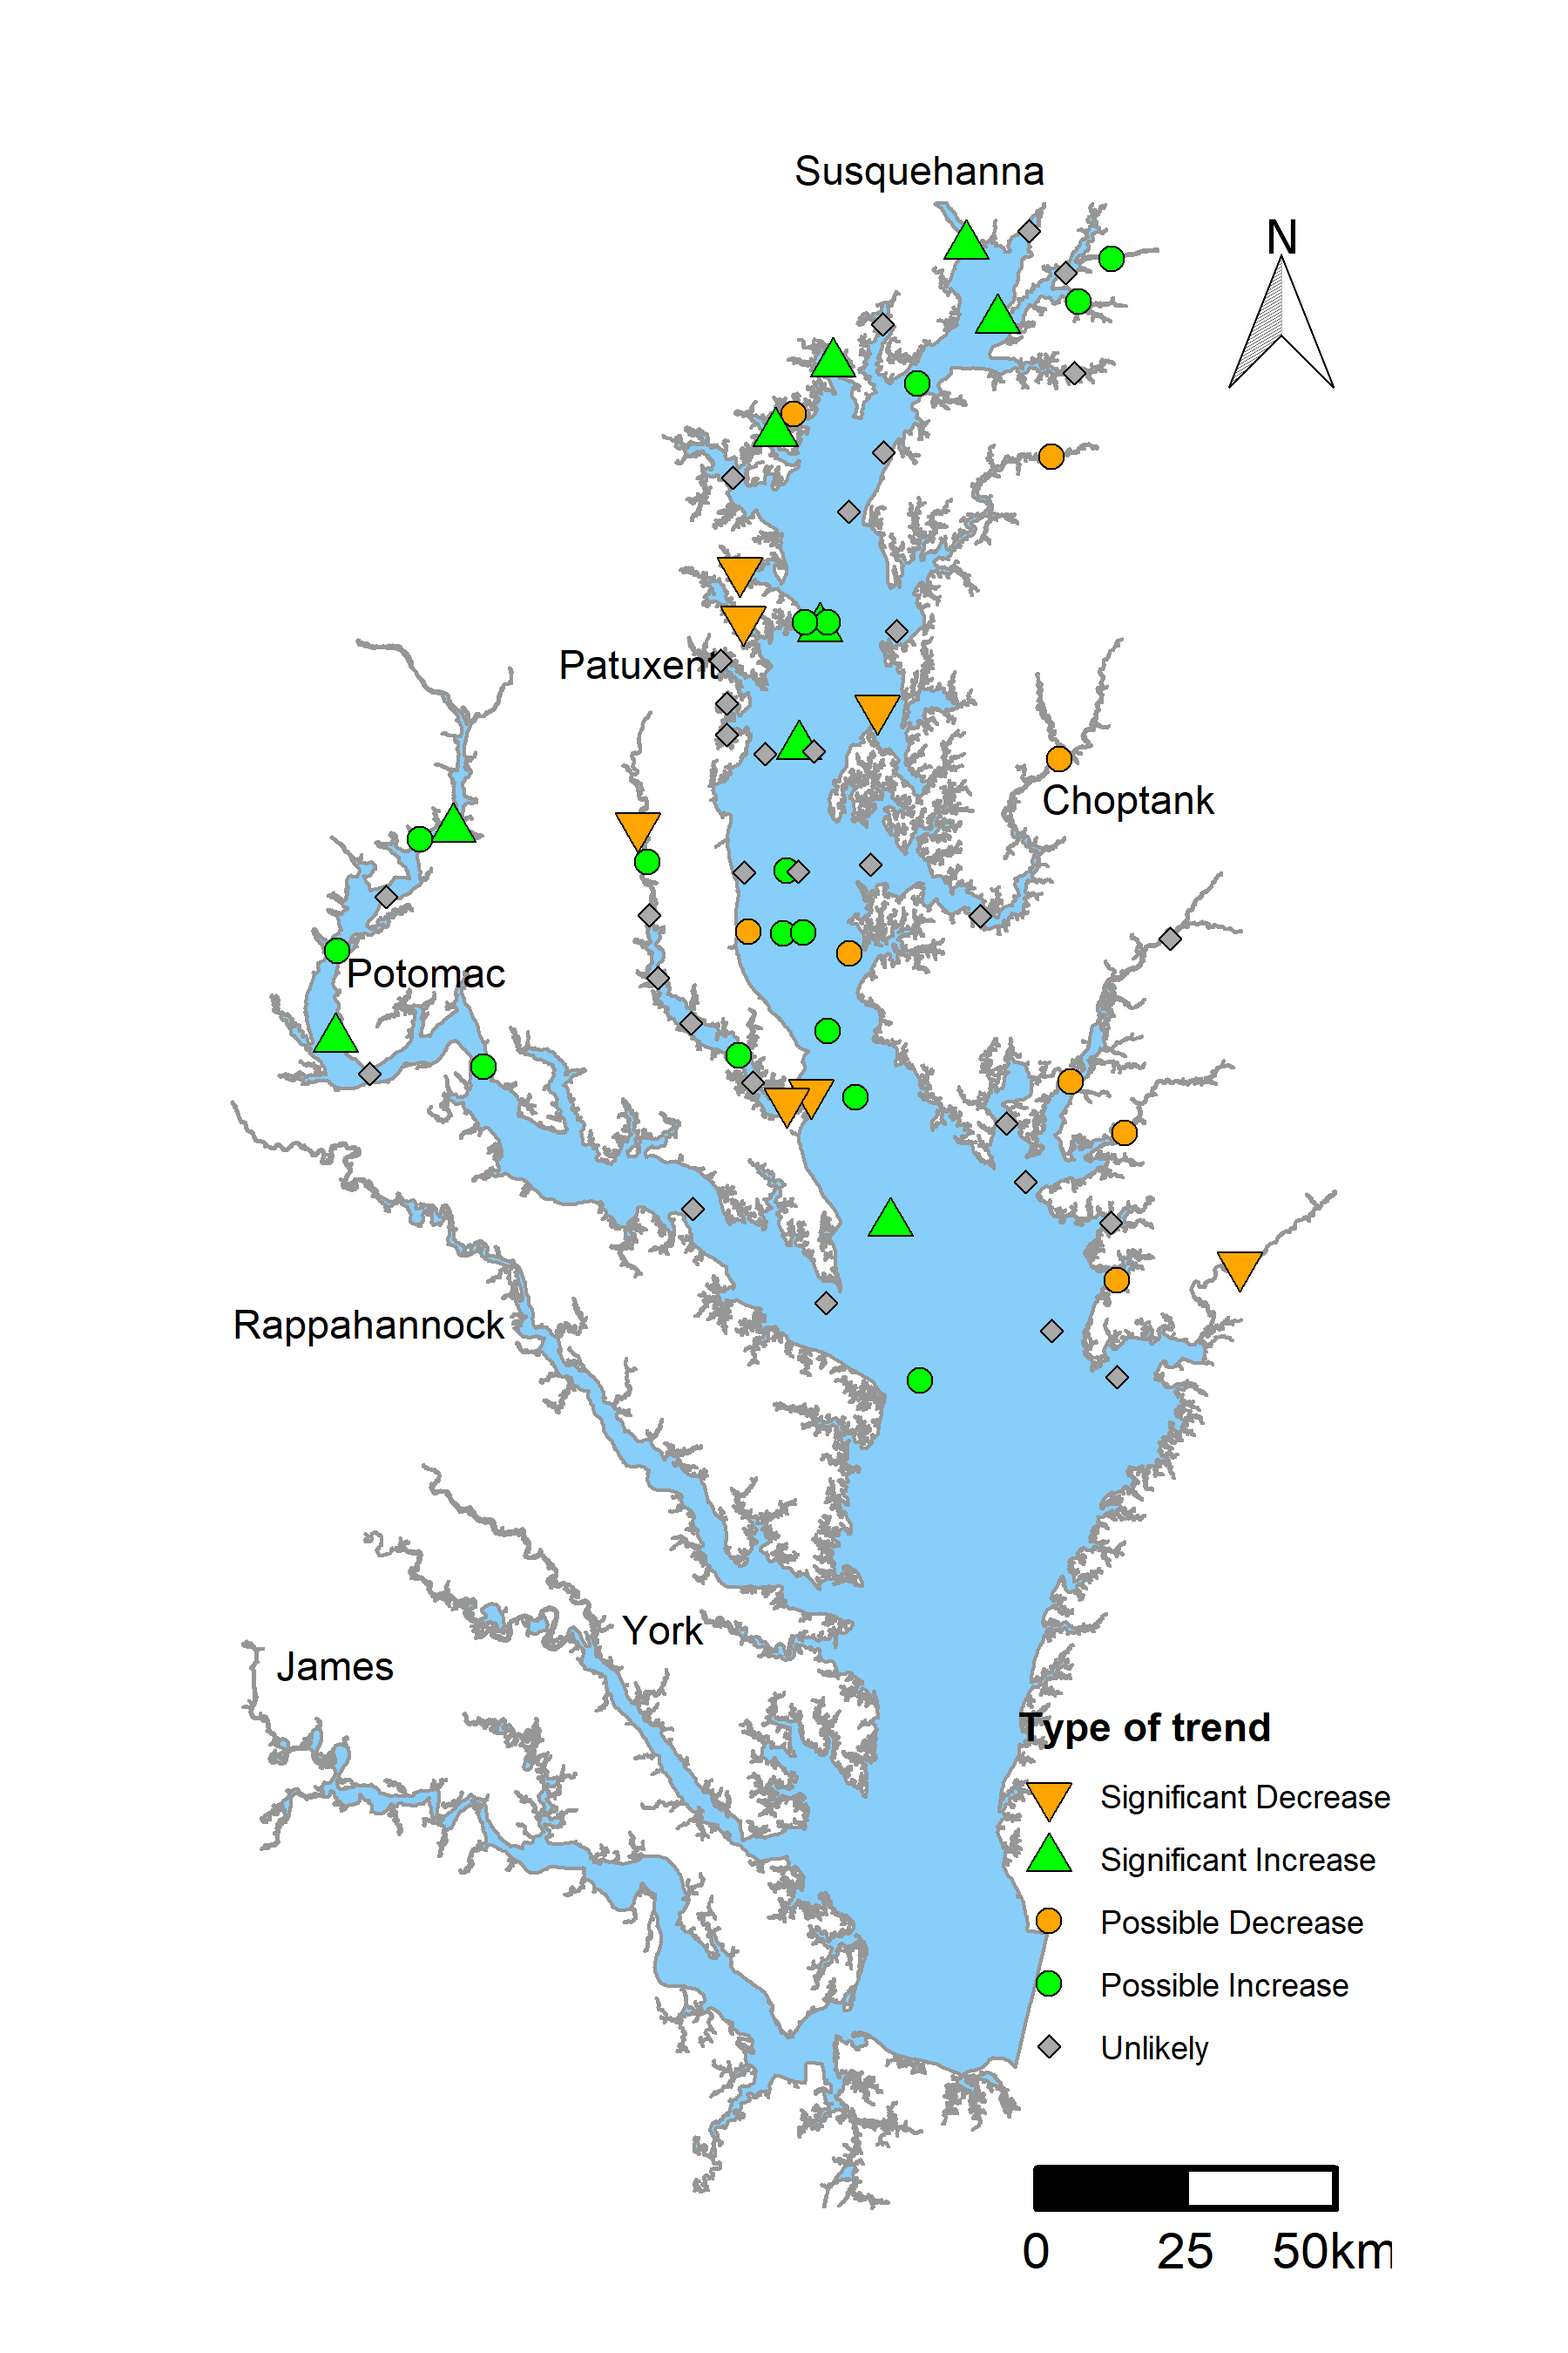
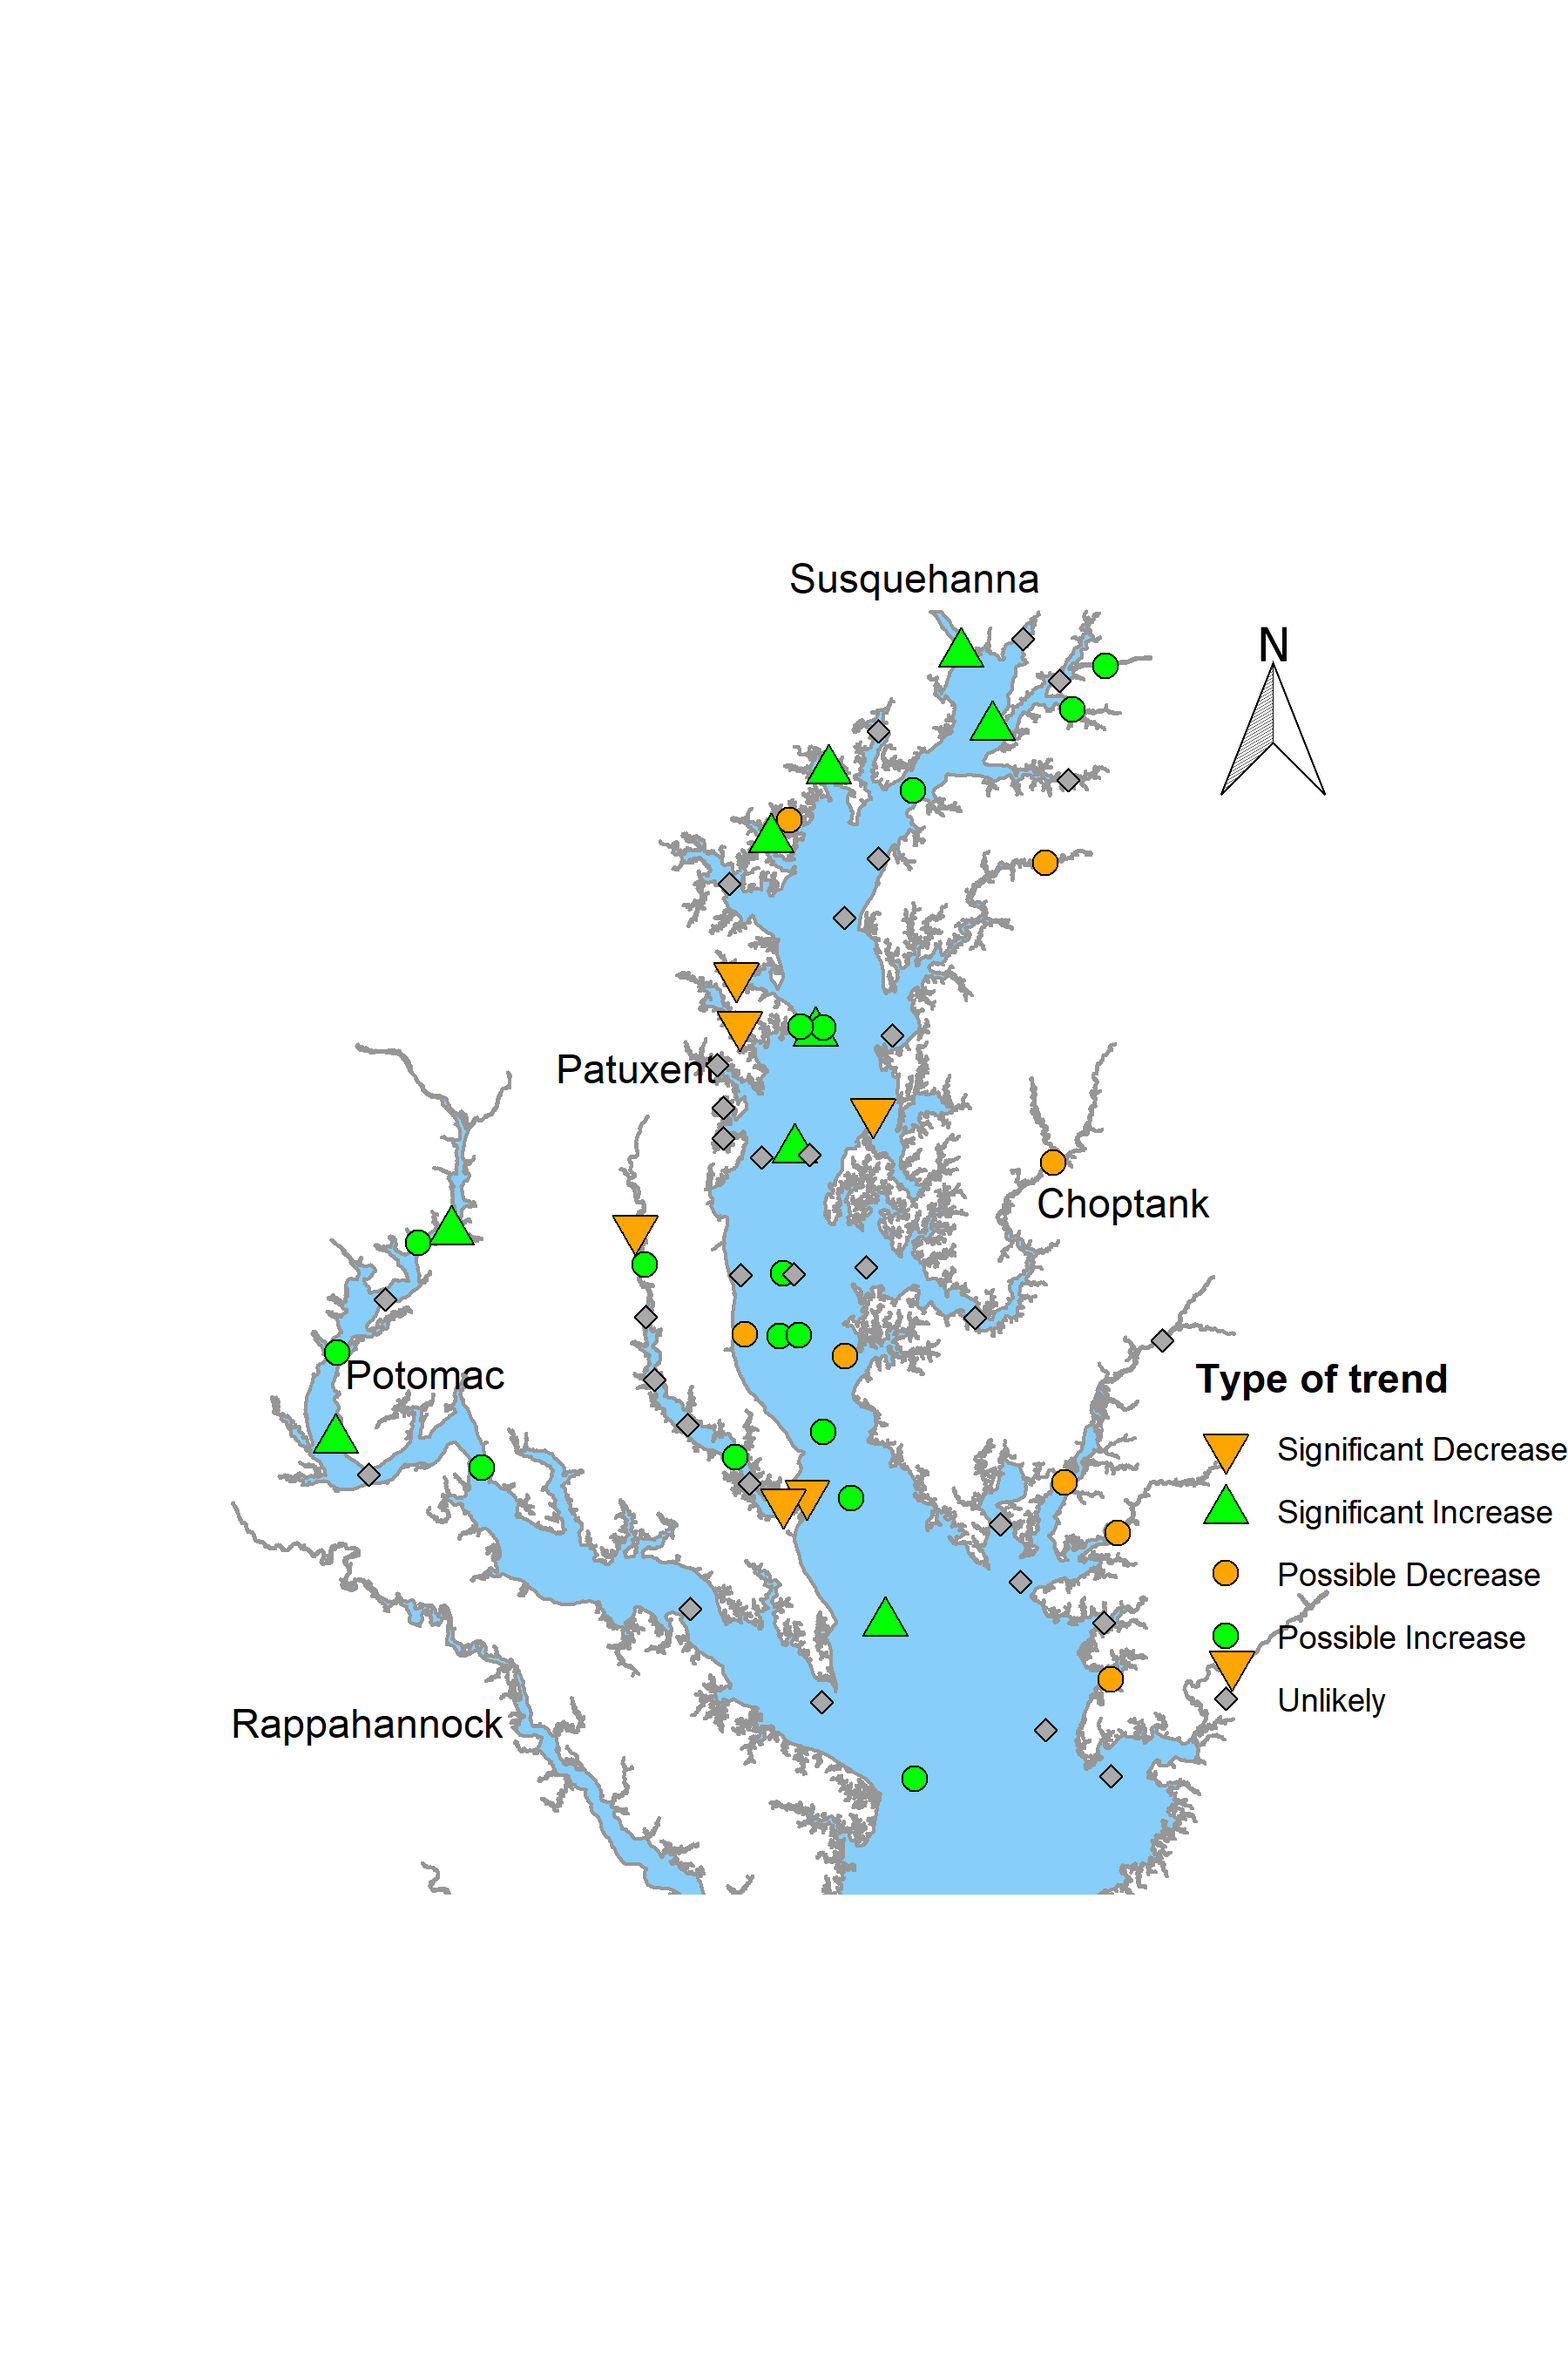
v0.0.3.9011
Fix zoom level buffer, Issue #6

diff --git a/NEWS.md b/NEWS.md
@@ -3,7 +3,25 @@ NEWS
 <Erik.Leppo@tetratech.com> and <jon.harcum@tetratech.com>
 
 <!-- NEWS.md is generated from NEWS.Rmd. Please edit that file -->
-    #> Last Update: 2019-11-18 14:08:09
+    #> Last Update: 2019-11-18 15:14:30
+
+baytrendsmap 0.0.3.9011
+=======================
+
+Released - 2019-11-18
+
+-   Fix zoom level buffer. Issue \#6.
+
+    -   Both Trend and Range maps.
+
+baytrendsmap 0.0.3.9010
+=======================
+
+Released - 2019-11-18
+
+-   server.R
+
+    -   Remove leaflet references
 
 baytrendsmap 0.0.3.9009
 =======================
